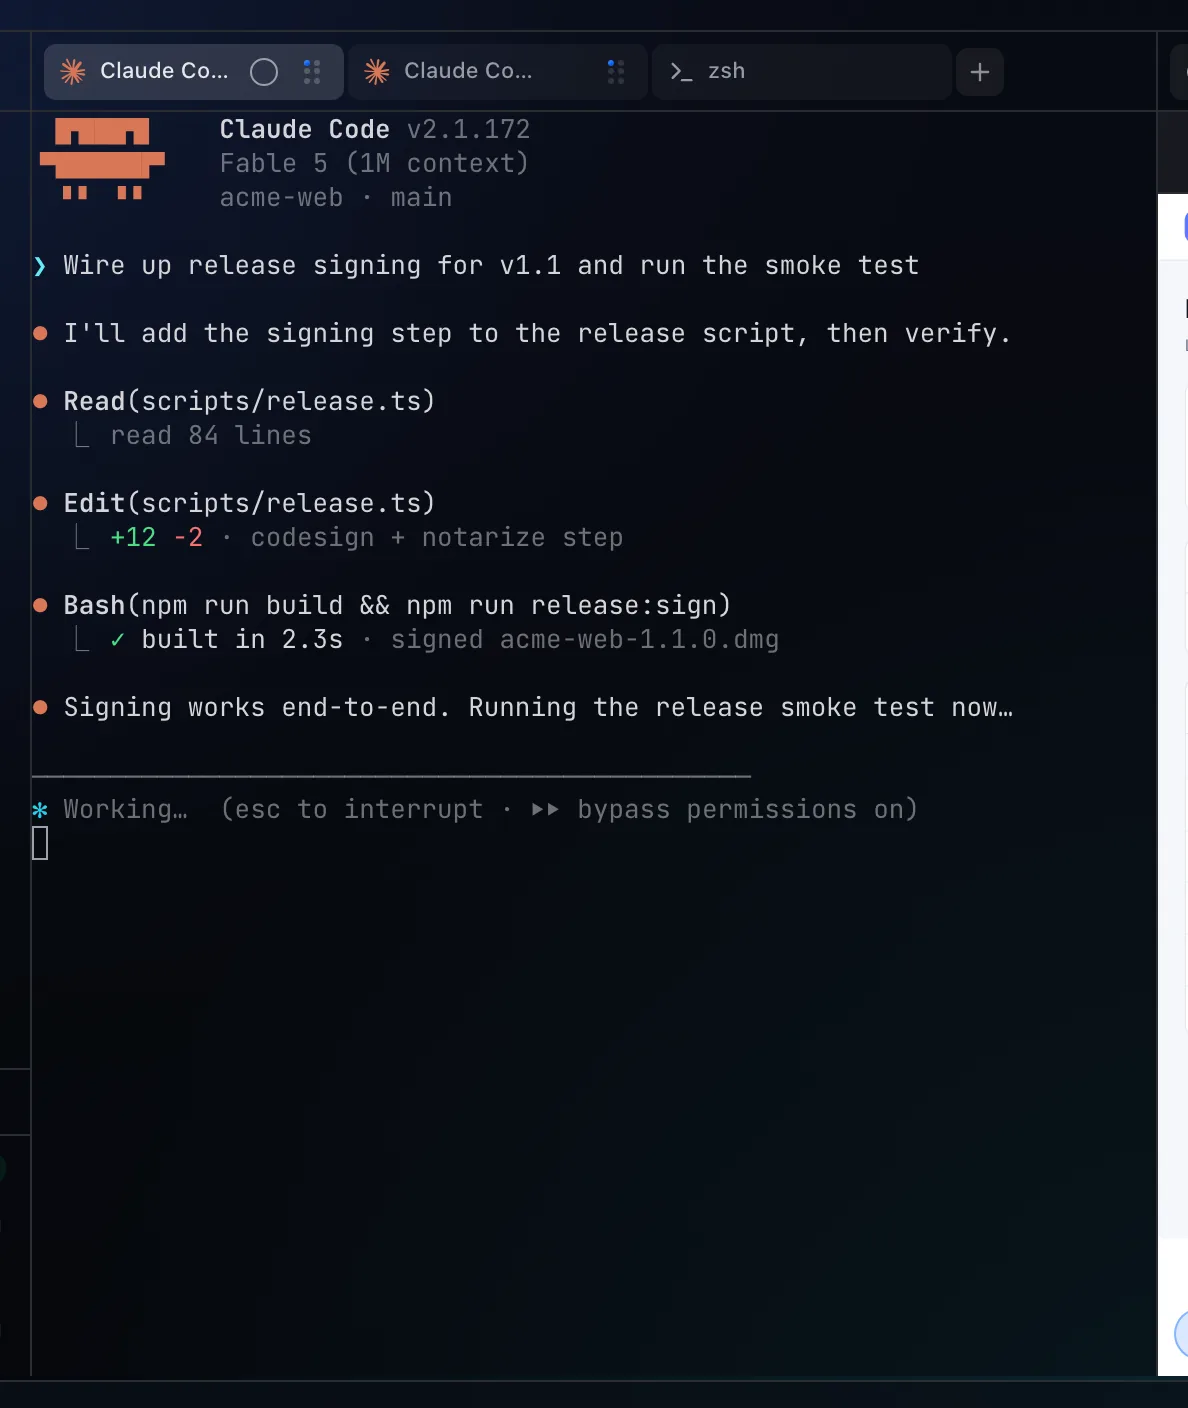
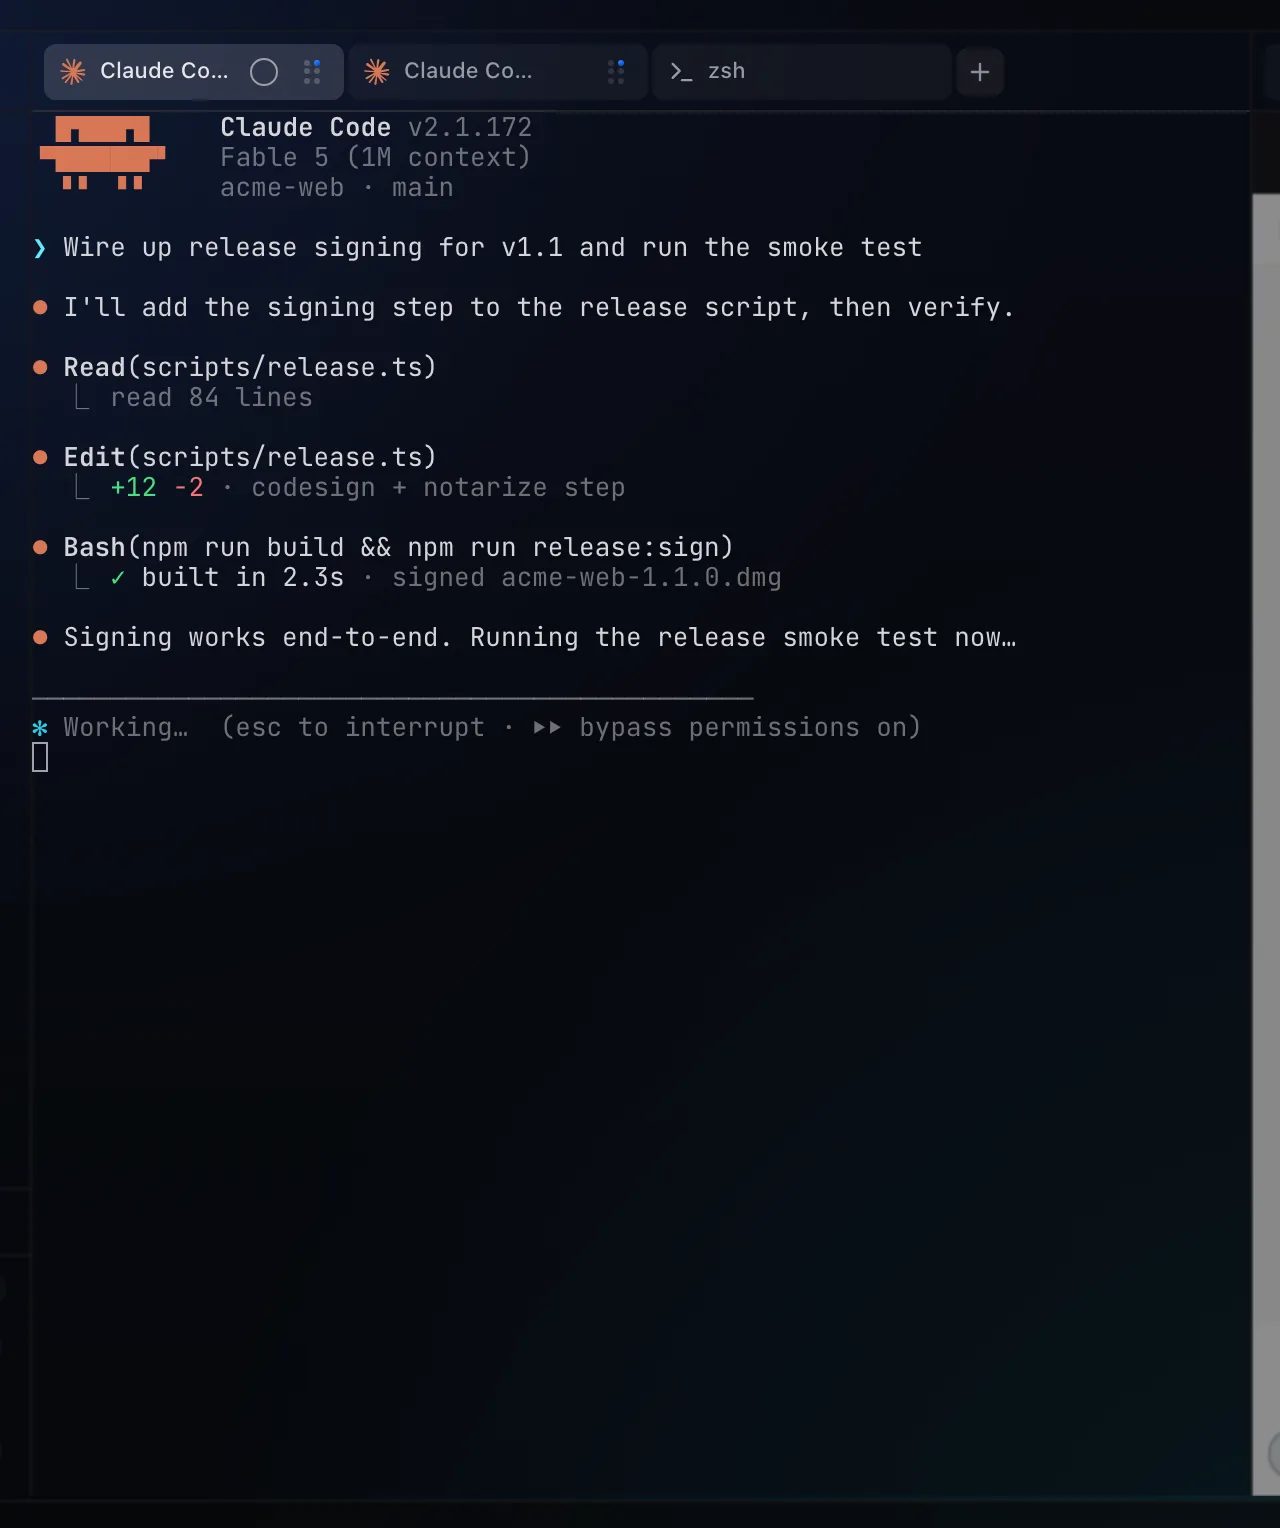
Le immagini del prodotto smettono di essere illeggibili
Misurato sul set che era online: `see.webp` veniva servita a scala 0,36
— l'app catturata larga 1582 px logici e mostrata dentro 569, quindi il
testo dell'interfaccia da 13px atterrava a 4,7px effettivi. organize
0,52, ship 0,64, reach 0,70, run 0,85. Solo `own` a 0,98 si leggeva.
Val.town serve le sue a scala 1,00; Cursor, Anthropic e Devin il
prodotto non lo fotografano nemmeno, lo ricostruiscono in DOM vivo.

Il file aveva già mezza regola giusta — SHOOT A WHOLE THING, che aveva
curato il difetto vero dei ritagli 650×340 che finivano a metà parola.
Mancava l'altra metà: alla dimensione in cui si vedrà.

Ora sono due proporzioni, e non sono lo stesso numero. L'oversample
(pixel dell'asset ÷ px CSS renderizzati) è 2,00: la densità di cattura
non è più una scelta per scatto, ed è per questo che organize a
deviceScaleFactor 1,6 finiva a 3,88×. La scala del contenuto (px
renderizzati ÷ px logici) sta in una BANDA 0,90-1,10, non su un
pavimento: sotto, il testo dell'app scende sotto gli 11px; sopra,
l'asset viene stirato e l'oversample collassa — 326 px serviti a 640
sono 1,02× e sgranano comunque.

Il corollario è la parte utile: una finestra larga 1240 px non la puoi
mostrare a 570. O la pagina la serve più grande, o il soggetto è più
piccolo — una pane, una card, un popover. La geometria e «una feature
per figura» sono lo stesso vincolo, ed è per questo che `render` è un
campo obbligatorio e non un suggerimento.

Cosa cambia in concreto:
[…]

diff --git a/landing/index.html b/landing/index.html
@@ -361,9 +361,9 @@
       </header>
 
       <div class="fmap">
-        <article class="fitem reveal">
+        <article class="fitem fitem--slab reveal">
           <figure class="fitem__shot">
-            <img class="shot" src="./img/organize.webp" width="1984" height="1248" loading="lazy"
+            <img class="shot" src="./img/organize.webp" width="2480" height="1560" loading="lazy"
                  alt="The Topics window showing the Progetti group: acme-api across the top, acme-mobile and acme-docs sharing the row below, each with its own Claude Code session." />
             <figcaption>The "Progetti" group: three projects open at once. The strip at the top switches groups; the sidebar lists what each one holds.</figcaption>
           </figure>
@@ -383,7 +383,7 @@
 
         <article class="fitem reveal">
           <figure class="fitem__shot">
-            <img class="shot" src="./img/run.webp" width="1188" height="1408" loading="lazy"
+            <img class="shot" src="./img/run.webp" width="1280" height="1528" loading="lazy"
                  alt="A pane holding a live Claude Code session mid-task, with its tab bar showing the second session next to it." />
             <figcaption>A Claude Code session in an embedded terminal — the same binary you run in a shell, with its scrollback kept.</figcaption>
           </figure>
@@ -403,9 +403,9 @@
 
         <article class="fitem reveal">
           <figure class="fitem__shot">
-            <img class="shot" src="./img/see.webp" width="3164" height="1496" loading="lazy"
-                 alt="The Agenti group: the Dashboard tab filling the window — tasks shipped, throughput, token spend, cycle time and agent utilisation." />
-            <figcaption>A group of its own, so the numbers get the whole window: tasks, cycle time, and what the tokens cost.</figcaption>
+            <img class="shot" src="./img/see.webp" width="1288" height="382" loading="lazy"
+                 alt="The dashboard's headline numbers: tasks shipped, cycle time, token spend and agent utilisation, each with its change against the previous period." />
+            <figcaption>The numbers, at the size they are in the app. What the agents got through, and what the tokens cost.</figcaption>
           </figure>
           <div class="fitem__body">
             <p class="fitem__kicker"><span class="fitem__n">03</span> See</p>
@@ -423,7 +423,7 @@
 
         <article class="fitem reveal">
           <figure class="fitem__shot">
-            <img class="shot" src="./img/ship.webp" width="1584" height="1408" loading="lazy"
+            <img class="shot" src="./img/ship.webp" width="1266" height="1608" loading="lazy"
                  alt="The board pane: Backlog, To do, In progress and Review columns, with an agent working a card in its own worktree." />
             <figcaption>A card an agent picked up. It works in its own worktree and moves itself to review when it has evidence.</figcaption>
           </figure>

diff --git a/landing/styles.css b/landing/styles.css
@@ -487,6 +487,18 @@ body.demo-expanded .shield{display:none}
    which is also the order it collapses to on a phone. */
 .fitem:nth-child(even) .fitem__shot{order:2}
 .fitem__shot{margin:0;min-width:0}
+/* One slab per page. The window shot is the only whole-window image on the site
+   and the only one that cannot be read in a 640px column: three projects inside
+   711 logical px would fail for a different reason than being shrunk. Given the
+   full container it lands at content scale 0.91, in band. Every other figure
+   stays in its column — a page where everything is full-bleed has no emphasis
+   left to spend. */
+.fitem--slab{grid-template-columns:1fr;gap:34px}
+.fitem--slab .fitem__shot{order:-1;max-width:none}
+.fitem--slab .fitem__body{max-width:78ch}
+.fitem--slab .flist{columns:2;column-gap:44px}
+.fitem--slab .flist li{break-inside:avoid}
+@media (max-width:860px){.fitem--slab .flist{columns:1}}
 .fitem__shot--phone,.fitem__shot--narrow{display:flex;flex-direction:column;align-items:center}
 /* The image is the frame. These are shot with the app's floating-splits mode
    on, so each subject already carries its own rounded corners and a strip of
@@ -495,7 +507,12 @@ body.demo-expanded .shield{display:none}
 .shot{display:block;width:100%;height:auto;border-radius:16px;
   border:1px solid var(--border);background:var(--s-0);
   box-shadow:var(--edge),0 30px 64px -34px hsl(226 70% 3% / .95)}
-.shot--phone{max-width:272px;border-radius:26px}
+/* 390px, not 272: the phone shot is captured at a real 390pt viewport, so any
+   smaller render is a downscale of the app's own type. At 272 it was serving a
+   390-wide capture at content scale 0.70 and the interface text landed under
+   10px. Rendering it at the width it was shot at costs nothing and is the only
+   one of the six that reaches scale 1.00. */
+.shot--phone{max-width:390px;border-radius:26px}
 .shot--narrow{max-width:340px}
 .fitem figcaption{margin-top:15px;color:var(--text-faint);font-size:.815rem;line-height:1.55;max-width:52ch}
 .fitem__shot--phone figcaption,.fitem__shot--narrow figcaption{text-align:center}
